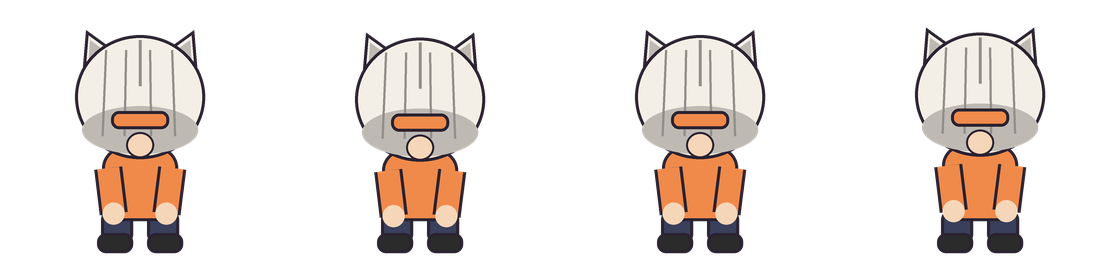
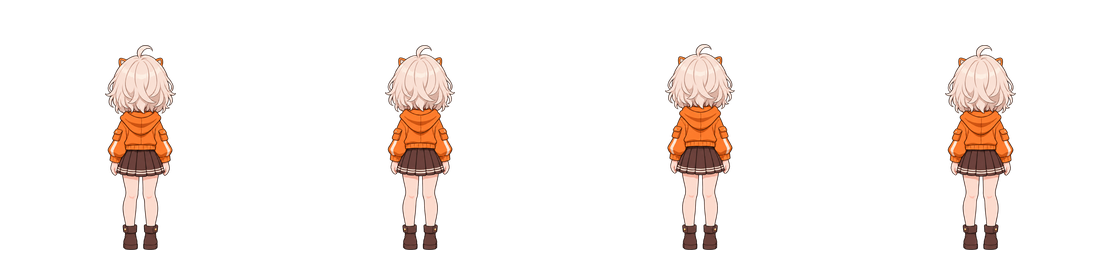
Redesign sample characters in anime style; add 'say' for character-to-character dialogue
- New original sample characters (Mochi, Kuro), generated with an image model
  following this repo's own persona-card and prompt workflow; persona cards
  included under teahouse-office/references/examples/
- set_state.py: new 'say' command shows a speech bubble for a character
- Sprite packaging and checking: locate figures automatically instead of
  relying on a fixed grid; split touching figures; per-sequence scaling
- Docs: provenance of sample art, say command, seating guidance
- Animated demo (GIF) and screenshots with the new characters

diff --git a/teahouse-office/app/src/Character.tsx b/teahouse-office/app/src/Character.tsx
@@ -19,14 +19,21 @@ function texture(id: string, seq: string) {
 }
 
 type Lines = Record<string, string[]>
-/** 角色對白：working 上工、done 做完、stuck 卡住、idle 閒聊、click 被點到、greet 剛出現。沒有 dialogue.json 就不顯示氣泡 */
-function useDialogue(id: string, status: string, selected: boolean) {
+/** 角色對白：working 上工、done 做完、stuck 卡住、idle 閒聊、click 被點到、greet 剛出現。沒有 dialogue.json 就不顯示氣泡。
+ *  agent 用 set_state.py <角色> say "…" 指定的話（state.say）優先，顯示期間不會被自動對白蓋掉 */
+function useDialogue(id: string, status: string, selected: boolean, said?: string, saidAt?: number) {
   const [lines, setLines] = useState<Lines | null>(null)
   const [say, setSay] = useState<string | null>(null)
   useEffect(() => { fetch(`/characters/${id}/dialogue.json`).then((r) => (r.ok ? r.json() : null)).then(setLines).catch(() => setLines(null)) }, [id])
   const pick = (k: string) => { const a = lines?.[k]; return a?.length ? a[Math.floor(Math.random() * a.length)] : null }
   const timer = useRef(0)
-  const show = (t: string | null, ms = 4200) => { if (!t) return; setSay(t); window.clearTimeout(timer.current); timer.current = window.setTimeout(() => setSay(null), ms) }
+  const hold = useRef(0)
+  const show = (t: string | null, ms = 4200, force = false) => {
+    if (!t || (!force && Date.now() < hold.current)) return
+    if (force) hold.current = Date.now() + ms
+    setSay(t); window.clearTimeout(timer.current); timer.current = window.setTimeout(() => setSay(null), ms)
+  }
+  useEffect(() => { if (said && saidAt && Date.now() - saidAt < 15000) show(said, 6000, true) }, [said, saidAt]) // eslint-disable-line react-hooks/exhaustive-deps
   const prev = useRef('')
   useEffect(() => { if (!lines) return; if (prev.current === '') show(pick('greet')); else if (status === 'working') show(pick('working')); prev.current = status || 'x' }, [status, lines]) // eslint-disable-line react-hooks/exhaustive-deps
   useEffect(() => { if (selected) show(pick('click')) }, [selected]) // eslint-disable-line react-hooks/exhaustive-deps
@@ -51,7 +58,7 @@ export function Character({ cfg, layout, state, selected, onSelect, report }: Pr
   const { camera } = useThree()
   const [atlas, setAtlas] = useState<Atlas | null>(null)
   const seat = useMemo(() => layout.seatOf(cfg.seat), [layout, cfg.seat])
-  const say = useDialogue(cfg.id, state.status, selected)
+  const say = useDialogue(cfg.id, state.status, selected, state.say, state.sayAt)
   const figH = layout.figureH * cfg.scale
   const planeH = figH / FIG_RATIO
   const planeW = planeH * (280 / 260)

diff --git a/teahouse-office/app/src/types.ts b/teahouse-office/app/src/types.ts
@@ -1,5 +1,6 @@
 export type CharCfg = { id: string; name: string; title: string; bio: string; seat: string; scale: number; color: string }
-export type CharState = { status: 'working' | 'idle' | 'rest'; task: string }
+/** say／sayAt：agent 讓角色說一句話（sayAt 是毫秒時間戳，頁面只顯示最近 15 秒內的） */
+export type CharState = { status: 'working' | 'idle' | 'rest'; task: string; say?: string; sayAt?: number }
 export type StateFile = { updatedAt?: string; characters: Record<string, CharState> }
 export type Atlas = { frame: [number, number]; seq: Record<string, { cols: number; rows: number; count: number }>; work?: string; talk?: string; rest?: string[]; side?: string[] }
 export type BoardCol = { title: string; items: { text: string; owner: string }[] }

diff --git a/teahouse-office/scripts/build_atlas.py b/teahouse-office/scripts/build_atlas.py
@@ -58,7 +58,7 @@ def cells_of(im, cols, rows, pick):
         if bb: out.append(cell.crop(bb))
     return out
 
-def figures_auto(im, take=None):
+def figures_auto(im, take=None, expect=None):
     """不靠格子：在透明圖上找出一個個分開的角色（生圖工具常不照格數排版）。
     依列（上到下）再依欄（左到右）排序；take='a-b' 取排序後第 a 到 b 個（從 0 起）。"""
     im = clean_haze(im.copy())
@@ -105,6 +105,33 @@ def figures_auto(im, take=None):
                 bb = solid(part)
                 if bb: res.append((fx + bb[0], fy + oy + bb[1], part.crop(bb)))
         figs = res
+    # 左右兩個角色的手或頭髮碰在一起也會黏成一個：依寬度比例在最細的欄切開
+    def split_w(fx, fy, f, k):
+        k = max(2, min(k, 6))
+        a = f.split()[3].point(lambda v: 255 if v > 40 else 0); W, H = a.size
+        col = [sum(1 for v in a.crop((x, 0, x + 1, H)).getdata() if v) for x in range(W)]
+        cuts = [0]
+        for j in range(1, k):
+            ideal, span = j * W / k, 0.35 * W / k
+            cuts.append(min(range(int(ideal - span), int(ideal + span) + 1), key=lambda x: col[min(max(x, 0), W - 1)]))
+        cuts.append(W)
+        out_ = []
+        for c0, c1 in zip(cuts, cuts[1:]):
+            part = f.crop((c0, 0, c1, H)); bb = solid(part)
+            if bb: out_.append((fx + c0 + bb[0], fy + bb[1], part.crop(bb)))
+        return out_
+    if len(figs) >= 3:   # 比一般角色寬 1.6 倍以上的，視為黏在一起
+        typ_w = statistics.median(f[2].width for f in figs); res = []
+        for fx, fy, f in figs:
+            k = round(f.width / typ_w)
+            res += split_w(fx, fy, f, k) if (f.width > typ_w * 1.6 and k >= 2) else [(fx, fy, f)]
+        figs = res
+    while expect and 0 < len(figs) < expect:   # 已知該有幾個：不夠就把最寬的那個切開
+        i = max(range(len(figs)), key=lambda i: figs[i][2].width)
+        fx, fy, f = figs.pop(i)
+        parts = split_w(fx, fy, f, expect - len(figs))
+        if len(parts) < 2: figs.insert(i, (fx, fy, f)); break
+        figs += parts
     # 分列：垂直中心相差不到半個角色高算同一列；列內由左到右
     figs.sort(key=lambda f: f[1] + f[2].height / 2)
     rows, med_h = [], statistics.median(f[2].height for f in figs)
@@ -144,7 +171,7 @@ def main():
         if f not in sheets: sheets[f] = Image.open(f).convert('RGBA')
         pick = s.get('pick', 'auto' if 'cols' not in s else 'all')
         if pick == 'auto' or pick.startswith('auto:'):
-            cs = figures_auto(sheets[f], pick[5:] or None)
+            cs = figures_auto(sheets[f], pick[5:] or None, s.get('frames'))
         else:
             cs = cells_of(sheets[f], s['cols'], s['rows'], pick)
         if not cs: print('⚠ 沒切出任何角色：', s['name']); continue

diff --git a/teahouse-office/scripts/set_state.py b/teahouse-office/scripts/set_state.py
@@ -1,7 +1,9 @@
 #!/usr/bin/env python3
 """推送角色狀態（任何 agent 或人手動都能呼叫；只用 Python 標準庫，不用裝東西）。
 用法：python3 scripts/set_state.py <角色id> <working|idle|rest> ["任務名稱，建議 10 字內"]
+      python3 scripts/set_state.py <角色id> say "要說的話（40 字內）"      讓角色頭上冒出對話泡泡，約 6 秒；狀態與任務不變
 例：  python3 scripts/set_state.py mochi working "整理本週排程"
+      python3 scripts/set_state.py mochi say "資料查得怎麼樣了？"
       python3 scripts/set_state.py mochi idle
 Office 頁面每 2 秒讀一次 app/public/data/state.json。"""
 import json, os, sys, tempfile, datetime
@@ -9,19 +11,26 @@ import json, os, sys, tempfile, datetime
 HERE = os.path.dirname(os.path.abspath(__file__))
 STATE = os.path.join(HERE, '..', 'app', 'public', 'data', 'state.json')
 CHARS = os.path.join(HERE, '..', 'app', 'public', 'characters', 'index.json')
-OK = ('working', 'idle', 'rest')
+OK = ('working', 'idle', 'rest', 'say')
 
 def main():
     if len(sys.argv) < 3 or sys.argv[2] not in OK:
         sys.exit(__doc__)
     who, status = sys.argv[1], sys.argv[2]
     task = sys.argv[3] if len(sys.argv) > 3 else ''
+    if status == 'say' and not task.strip():
+        sys.exit('say 後面要接要說的話，例：set_state.py mochi say "早安"')
     ids = [c['id'] for c in json.load(open(CHARS, encoding='utf-8'))]
     if who not in ids:
         sys.exit(f'沒有這個角色「{who}」。可用：{", ".join(ids)}')
     try: data = json.load(open(STATE, encoding='utf-8'))
     except Exception: data = {'characters': {}}
-    data.setdefault('characters', {})[who] = {'status': status, 'task': task}
+    chars = data.setdefault('characters', {})
+    if status == 'say':   # 只加一句話，不動狀態與任務
+        cur = chars.get(who, {'status': 'idle', 'task': ''})
+        chars[who] = {**cur, 'say': ' '.join(task.split())[:40], 'sayAt': int(datetime.datetime.now().timestamp() * 1000)}
+    else:
+        chars[who] = {'status': status, 'task': task}
     data['updatedAt'] = datetime.datetime.now().astimezone().isoformat(timespec='seconds')
     fd, tmp = tempfile.mkstemp(dir=os.path.dirname(STATE), suffix='.tmp')
     with os.fdopen(fd, 'w', encoding='utf-8') as f: json.dump(data, f, ensure_ascii=False, indent=2)

diff --git a/teahouse-office/scripts/check_sprite.py b/teahouse-office/scripts/check_sprite.py
@@ -80,7 +80,7 @@ def finish_auto(im, a, frames, issues, warns):
     import importlib.util, os
     spec = importlib.util.spec_from_file_location('build_atlas', os.path.join(os.path.dirname(os.path.abspath(__file__)), 'build_atlas.py'))
     ba = importlib.util.module_from_spec(spec); spec.loader.exec_module(ba)
-    figs = ba.figures_auto(im)
+    figs = ba.figures_auto(im, None, frames)
     print(f'找到 {len(figs)} 個角色')
     if not figs:
         issues.append('❌ 圖裡找不到角色')
@@ -91,7 +91,7 @@ def finish_auto(im, a, frames, issues, warns):
         odd = [i + 1 for i, h in enumerate(hs) if abs(h - m) > m * 0.25]
         if odd: warns.append(f'⚠ 第 {odd} 個角色大小跟其他差很多（同一張應該是同一個動作的連續畫面）')
     W, H = a.size; b = a.point(lambda v: 255 if v > 40 else 0)
-    edge = any(b.crop(box).getbbox() for box in ((0, 0, W, 2), (0, H - 2, W, H), (0, 0, 2, H), (W - 2, 0, W, H)))
+    edge = any(sum(1 for v in b.crop(box).getdata() if v) > 12 for box in ((0, 0, W, 2), (0, H - 2, W, H), (0, 0, 2, H), (W - 2, 0, W, H)))   # 零星幾個像素不算被切到
     if edge: issues.append('❌ 角色碰到整張圖的邊（可能被切到）：請在提示詞要求「四周留白、角色完整入鏡」')
     for w_ in warns: print(w_)
     for i_ in issues: print(i_)

diff --git a/teahouse-office/scripts/make_sample_character.py b/teahouse-office/scripts/make_sample_character.py
@@ -1,5 +1,5 @@
 #!/usr/bin/env python3
-"""產生原創範例角色的精靈圖集（程序繪製，無任何第三方美術）。
+"""產生簡易佔位角色的精靈圖集（程序繪製，無任何第三方美術）：還沒有角色圖時先用它跑通流程。
 用法：python3 scripts/make_sample_character.py <輸出資料夾> <id> [hair] [shirt] [ears|glasses|none]
 輸出：<輸出資料夾>/<id>/ 底下每個動作一張橫排 PNG（每格 280x260、透明底、腳底在 y=250）＋ atlas.json。
 這同時是「圖集格式」的參考實作：自己的角色圖照同樣格式放進去就能用。"""

diff --git a/README.md b/README.md
@@ -4,6 +4,10 @@
 
 *Two agent skills: a cozy 3D Japanese-courtyard office where your AI agents walk to their desks while working, and a glassy local-first dashboard. Runs entirely on your machine.*
 
+![角色隨 agent 狀態走動並互相對話：待命時在庭院散步，收到工作指令後走進會議和室坐下，兩位用對話泡泡交談，完成後離座](docs/office-demo.gif)
+
+*每一步由一行指令觸發：`set_state.py mochi working "整理本週排程"` 讓角色去工作，`set_state.py mochi say "…"` 讓角色開口說話。兩位範例角色為原創設計。*
+
 ![和風庭院 Office：黃昏](docs/office-dusk.png)
 
 | 白天 | 夜晚 | 儀表板 |
@@ -44,7 +48,7 @@ Node.js 20.19+（或 22.12+）、Python 3.9+、瀏覽器。做角色圖另需 Pi
 - 詳見各資料夾的 `SECURITY.md`。發現安全問題請用 **Security → Report a vulnerability** 私下回報。
 
 ## 授權與素材
-程式碼以 [MIT](LICENSE) 授權。範例角色與 3D 場景全部由程式產生，不含第三方美術素材。前端開源套件（React、three.js、react-three-fiber 等）各依其授權，由 npm 安裝時取得。
+程式碼以 [MIT](LICENSE) 授權。兩位範例角色是原創設計，由 AI 生圖工具（OpenAI 圖像生成，經 Codex CLI）依 `teahouse-office` 自己的人設卡與提示詞流程製作（人設卡見 `teahouse-office/references/examples/`）；3D 場景的幾何與貼圖全部由程式產生。不含第三方美術素材。前端開源套件（React、three.js、react-three-fiber 等）各依其授權，由 npm 安裝時取得。
 
 ## 目前還沒驗證
 Codex 以外的生圖工具、真實 Claude Code／Codex 工作階段的完整接入、手機與 Safari／Windows。歡迎開 issue 回報。

diff --git a/teahouse-office/README.md b/teahouse-office/README.md
@@ -39,7 +39,7 @@ Node.js 20.19+（或 22.12+）、Python 3.9+、瀏覽器。做角色圖時另需
 | `SECURITY.md` | 它會碰什麼、不會碰什麼；分享前的檢查 |
 
 ## 範例角色與素材
-兩位範例角色「麻糬」「小黑」由 `scripts/make_sample_character.py` 用程式畫出，場景的幾何與貼圖也全部由程式產生，不含任何第三方美術素材。前端使用的開源套件（React、three.js、react-three-fiber 等）各依其授權，安裝時由 npm 取得，不隨本 repo 散佈。
+兩位範例角色「麻糬」「小黑」是原創設計，由 AI 生圖工具（OpenAI 圖像生成，經 Codex CLI）依本套件的人設卡與提示詞流程製作，人設卡見 `references/examples/`；和風庭院的幾何與貼圖全部由程式產生。整個套件不含任何第三方美術素材。`scripts/make_sample_character.py` 另可快速產生簡易佔位角色，用來在還沒有角色圖時先跑通流程。前端使用的開源套件（React、three.js、react-three-fiber 等）各依其授權，安裝時由 npm 取得，不隨本 repo 散佈。
 
 ## 還沒驗證的部分
 Codex 以外的生圖工具、在真實 Claude Code／Codex 工作階段跑完整條接入、手機與 Safari／Windows。遇到問題歡迎開 issue。

diff --git a/teahouse-office/references/examples/mochi.persona.md b/teahouse-office/references/examples/mochi.persona.md
@@ -1,0 +1,17 @@
+# 麻糬（id：mochi）
+> 範例人設卡：內建範例角色就是照這份卡、用本套件的提示詞流程做出來的。格式說明見 `../01-persona-card.md`。
+
+- 職務：專案統籌
+- 一句話定位：愛整理、先排順序再開工的溫和統籌
+- 個性三詞：溫和、條理、細心
+- 說話風格：句子短、語氣平穩，習慣把事情拆成步驟
+- 口頭禪：「先排順序，再開工。」
+- 外型
+  - 物種／人型：人型年輕女性
+  - 髮型與髮色：奶白色蓬鬆及肩短髮（#F3EDE4）
+  - 服裝與主色：橘色連帽短外套（#F08A4B）、白色內搭、深棕色百褶短裙（#4A2E22）、短靴
+  - 招牌配件：頭頂兩個貓耳造型髮夾、胸前掛一本小筆記本
+  - 身高：預設等身高
+- 畫風錨點：日式動畫 Q 版 2.5 頭身、乾淨的深色細描邊、賽璐璐上色加柔和陰影、明亮飽和的配色、大而有神的眼睛，原創角色設計
+- 禁止元素：真人寫實、文字、浮水印、場景、桌椅道具、地面陰影
+- 場景偏好：會議和室的長桌

diff --git a/teahouse-office/references/examples/kuro.persona.md b/teahouse-office/references/examples/kuro.persona.md
@@ -1,0 +1,17 @@
+# 小黑（id：kuro）
+> 範例人設卡，與 `mochi.persona.md` 共用同一個畫風錨點（多角色同場時錨點必須完全相同）。
+
+- 職務：資料研究
+- 一句話定位：話不多、凡事要看來源的查證專員
+- 個性三詞：沉穩、嚴謹、寡言
+- 說話風格：極短句，常用問句追來源；不說沒把握的話
+- 口頭禪：「來源在哪？」
+- 外型
+  - 物種／人型：人型年輕男性
+  - 髮型與髮色：深藍黑色俐落短髮（#1E2440），前髮微翹
+  - 服裝與主色：青綠色襯衫（#3AA7A3）、深灰背心、深色長褲、黑色休閒鞋
+  - 招牌配件：細框圓眼鏡、胸前口袋插一支筆
+  - 身高：預設等身高
+- 畫風錨點：日式動畫 Q 版 2.5 頭身、乾淨的深色細描邊、賽璐璐上色加柔和陰影、明亮飽和的配色、大而有神的眼睛，原創角色設計
+- 禁止元素：真人寫實、文字、浮水印、場景、桌椅道具、地面陰影
+- 場景偏好：會議和室

diff --git a/teahouse-office/接入說明.md b/teahouse-office/接入說明.md
@@ -8,6 +8,12 @@ python3 scripts/set_state.py <角色id> idle                            # 結束
 ```
 只用 Python 標準庫。能執行 shell 指令的 agent（Claude Code、Codex、其他終端機型 agent）都適用。
 
+想讓角色說一句話（頭上冒出對話泡泡約 6 秒，狀態與任務不變）：
+```bash
+python3 scripts/set_state.py <角色id> say "要說的話（40 字內）"
+```
+多個 agent 各綁一個角色，就能在畫面上互相對話；沒有指定時，角色會依 `dialogue.json` 自動說話。
+
 ## 怎麼讓 agent 記得執行
 把下面這段貼進 agent 的規則檔（Claude Code 用 `CLAUDE.md`、Codex 用 `AGENTS.md`、其他工具用它的系統提示或規則檔）：
 
